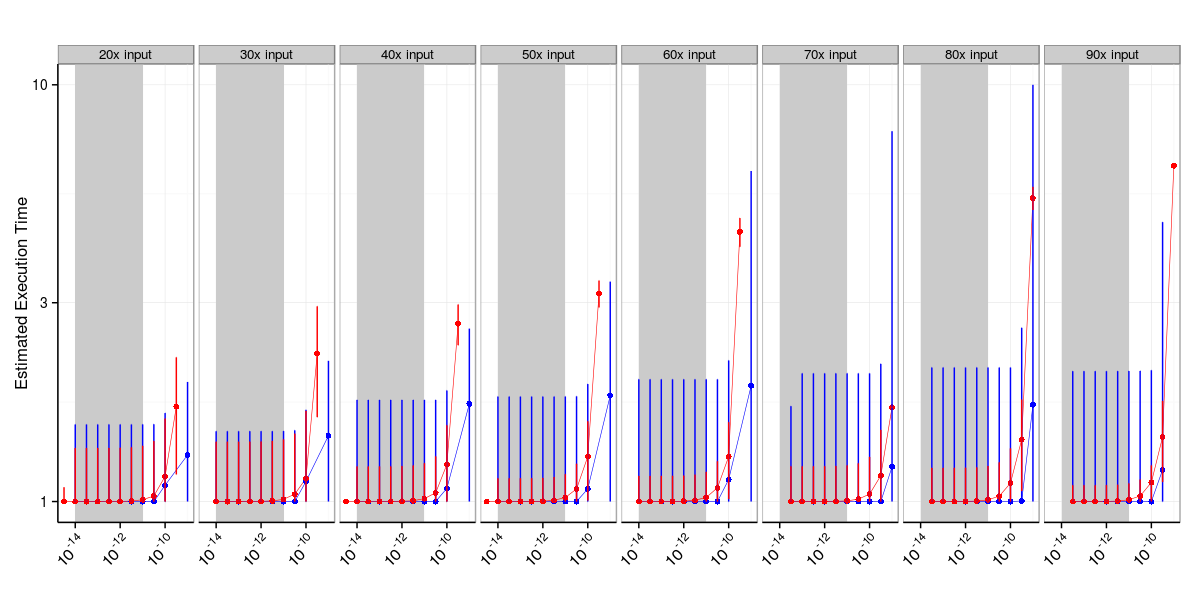
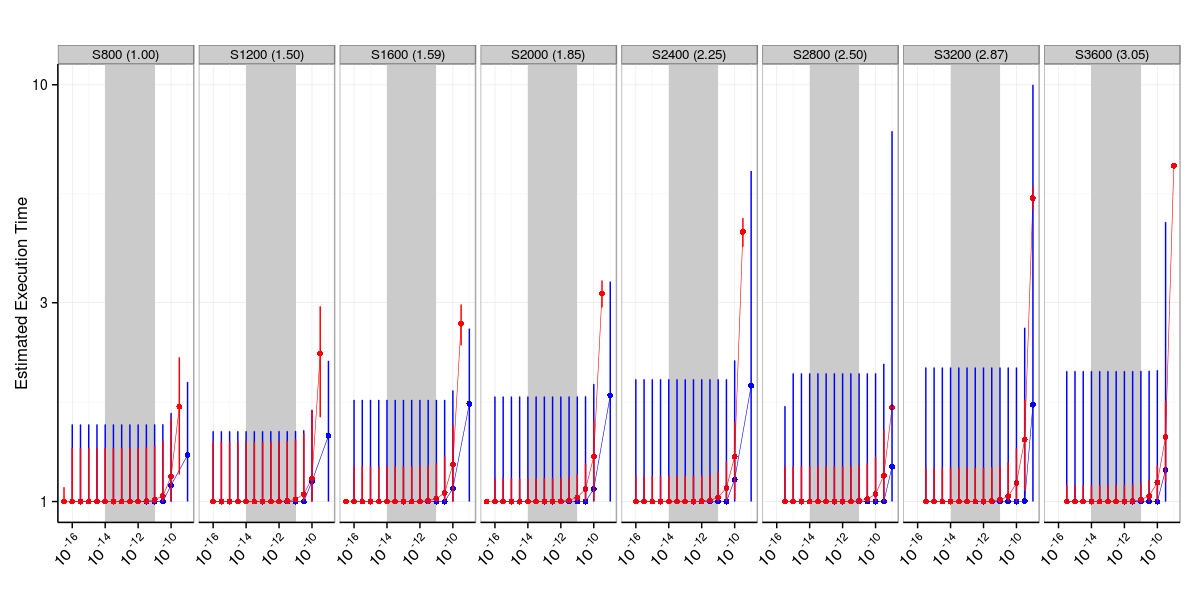
Changes in text; change the facet names on figs 9~14

Changed region(s): [[0.0308, 0.06, 0.9867, 0.96]]

diff --git a/paper.tex b/paper.tex
@@ -43,7 +43,7 @@ To provide comprehensive protection for the computations of HPC applications it 
 Algorithmic resilience can be very complex to deploy in applications because a comprehensive resilience strategy must address all the types of errors that an application may experience.
 This includes corruptions to numerical data as well as control information and data structures.
 Full protection requires the combination of multiple techniques including algorithmic error detection, crash detection, replication of key control information as well as support for restart when errors are detected.
-Further, it is necessary to configure the properties of the resilience mechanisms to make sure that they are cost-effectively meeting the user's accuracy and confidence targets. 
+Further, it is necessary to configure the properties of the resilience mechanisms to make sure that they are cost-effectively meeting the user's accuracy and confidence targets.
 This paper shows how all these issues can be resolved comprehensively in the context of three numeric applications.
 
 \end{abstract}
@@ -79,8 +79,8 @@ We show how these three applications can be comprehensively protected from soft 
 We demonstrate via fault injection experiments that although none of these techniques can individually protect applications from soft faults, their combination is highly effective.
 Further, we demonstrate how these techniques can be configured to offer the right level of protection at any given fault rate or input type.
 More specifically, these configurations can be used to produce a wide range of overheads and result accuracy levels and to tune the probabilistic confidence level that the given overhead or accuracy target will be met.
-%\greg{Summarize real results} 
-%\sui{A tighter algorithmic checker bounds can be enabled at low error rates to completely eliminate erroneous results at a lower overhead, while a more lenient algorithmic checker would allow the user to produce more acceptable results in face of a higher error rate (such as 1e-09)} 
+%\greg{Summarize real results}
+%\sui{A tighter algorithmic checker bounds can be enabled at low error rates to completely eliminate erroneous results at a lower overhead, while a more lenient algorithmic checker would allow the user to produce more acceptable results in face of a higher error rate (such as 1e-09)}
 For the three considered scientific codes, we correct more than 50\% of segmentation faults and we reduce the error in the outputs by one order of magnitude. The overhead is always lower than 20\%.
 
 The paper is organized as follows.
@@ -122,29 +122,31 @@ Since they spend most of their execution time in library routines, we focus our 
 The ADDR method solves under-unconstrained linear problems $Ax=b$ for $x$ ($A$ has fewer rows than columns) while minimizing the function $f(x)$.
 This is an iterative algorithm uses 64-bit precision and that spends most of its time in the following linear algebra operations, matrix-matrix multiplication, matrix-vector multiplication, rank-k update and Cholesky factorization, using the implementations of these routines from the GNU Scientific Library~\cite{gsl:2011}.
 We focus on a specific application that uses the ADDR method to solve Lasso problems, which are defined as minimizing the function $\frac{1}{2} \left|| Ax - b \right||_2^2 + \lambda*\left|| x \right||_1$.
-In our experiments we consider linear systems of size $\{40, 80, 120, ..., 4000\} \times 500$ that are generated by sampling a normal distribution.
+It is parallelized using MPI and our experiments focus on 4-processors runs of ADDR which computes linear systems of size $\{40, 80, 120, ..., 4000\} \times 500$ (40 to 4000 measurements with 500 variables each) and in the experiments below are denoted $S40$, $S80$, ..., $S4000$.
+The values in $A$ and $b$ are generated by sampling a normal distribution with a mean of 0.
 According to our experiments, the running time of this solver is not dependent on the kind of distribution the inputs are sampled from.
 
 \subsection{DRC: Digital Room Correction}
 \label{sec:apps:drc}
 
-The DRC program generates filters for HiFi audio systems to compensate for the reflection of sounds in a room, using impulse response measurements of the audio equipment and considering the positions of the listeners.
+DRC is a sequential program generates filters for HiFi audio systems to compensate for the reflection of sounds in a room, using impulse response measurements of the audio equipment and considering the positions of the listeners.
 The inputs are stored in Pulse Code Modulation (PCM) format, which is an array of 32-bit floating point numbers representing the samples at each sampling time step and the computations are performed using 32-bit precision.
-Although the algorithm is divided into many phases the most computationally intensive step consists of the GSL's implementation of the Fast Fourier Transform and an DRC-internal implementation of Finite Impulse Response filter generation.
+Although the algorithm is divided into many phases the most computationally intensive step consists of the GSL's implementation of the Fast Fourier Transform and a DRC-internal implementation of Finite Impulse Response filter generation.
 This program accepts user-controllable configurations to decide the width and number of iterations of FFT transforms it uses to perform various passes on the input file, such as windowing, deconvolution, pre- and post-filtering.
-The input used in this paper is an audio file of size 768 kilobytes.
+The input used in this paper is an audio file of size 768 kilobytes, which is sampled at the rate of 30Khz, 40Khz, ..., 90Khz.
 
 \subsection{Hattrick}
 \label{sec:apps:hattrick}
-The Hattrick application simulates the motion of bodies under the effects of gravity using 64-bit precision.
+Hattrick is a sequential application simulates the motion of bodies under the effects of gravity using 64-bit precision.
 It is designed to help discover extra-solar planets by inferring their existence from Transit Timing Variations, where the difference between the times when a planet passes in front of its host star is used to infer the existence and properties of other planets in the system.
-This program spends most of its execution time in the GSL solver for Ordinary Differential Equations to solver the system's equations of motion.
-Input files are four different planetary systems. The first, third and fourth input files simulate one star and one planet and the second simulates one star and two planets. The third and fourth inputs are the same planetary system with different lengths of simulation time.
+This program spends most of its execution time in the GSL solver for Ordinary Differential Equations to solve the system's equations of motion.
+A given input is described using three parameters: $P$=number of planets, $T$=amount of time to simulate, and $A$=the accuracy target.
+In our experiments we considered the following four inputs: $P2T2090A15$, $P2T3090A15$, $P2T4090A15$ and $P3T2090A11$, where an $A15$ and $A11$ denote accuracy targets of $1e-15$ and $1e-11$, respectively.
 
 \section{Resilience Techniques}
 \label{sec:res_tech}
 
-In this paper we consider a comprehensive resilience strategy that combines error detection and recovery.
+In this paper we consider a comprehensive resilience strategy that combines various types of error detection and recovery.
 Error detection techniques are discussed in Section~\ref{sec:res_tech:err_det}, with Section~\ref{sec:res_tech:err_det:algo} focusing on algorithmic techniques to detect errors in the numeric portions of application state, while Section~\ref{sec:res_tech:err_det:mem} focuses on protection of data structures.
 Section~\ref{sec:res_tech:cr} then considers recovery techniques based on both checkpoint-restart, which offers lower-overhead but higher-latency recovery, as well as replication of key variables, which reduces performance but enables fast recovery.
 Finally, Section~\ref{sec:res_tech:eval} presents an experimental evaluation of the performance and accuracy properties of the resilient versions of the major routines used by our target applications, under a wide range of inputs and error injection rates.
@@ -152,65 +154,76 @@ Finally, Section~\ref{sec:res_tech:eval} presents an experimental evaluation of 
 \subsection{Error Detection}
 \label{sec:res_tech:err_det}
 
+\vspace{-5pt}
 \subsubsection{Algorithmic Detection}
 \label{sec:res_tech:err_det:algo}
 
 %\sui{Performance experiments inserted here: running algorithmic checkers across different input sizes and fault rates: 62x62 to 500x500 matrices for MM, RK, CD, MV checkers; FFT sizes of $2^8$ to $2^{24}$ for the FFT checker; Error bars should apply here, especially for the Cholesky Decomposition checker}
 
 Each algorithm used by the above application was enhanced with an algorithm-specific checker that validated its results by exploiting some algorithmic identity.
-Each checker computes some aggregate property of the algorithm's results using two different algorithm to produce vectors $v$ and $v'$ and their relative difference by more than some threshold $\tau$, the checker declares that an error has occurred.
+Each checker computes some aggregate property of the algorithm's results using two different algorithms to produce vectors $v$ and $v'$.
+If their relative difference by more than some threshold $\tau$, the checker declares that an error has occurred.
 The relative difference is computed as $\frac{\left|| v-v' \right||}{max(\left||v\right||, \left||v'\right||)}$.
 Each error detection causes the routine's execution to be restarted using the rollback mechanism described in Section~\ref{sec:res_tech:cr}.
 
+\vspace{-5pt}
 \paragraph{Matrix-matrix multiplication (MMM)}
-The MMM operation $A \cdot B$ is checked using a matrix vector multiplication (MVM), making use of this identity: $(A \cdot B) \cdot x = A \cdot (B \cdot x)$, where $x$ is an error-checking vector.
-Both sides compute the sums of the columns of matrix $A \cdot B$ using a single matrix-vector multiplication on the left and two such operations on the right.
+The operation $A \cdot B$ is checked using a matrix vector multiplication (MVM), via the identity: $(A \cdot B) \cdot x = A \cdot (B \cdot x)$, where $x$ is an error-checking vector.
+Since we set the check vector $x$ to be all 1s this is equivalent to both sides computing the sums of the columns of matrix $A \cdot B$ using a single MVM on the left and two MVMs on the right.
 Most errors in the computation of $A \cdot B$ will affect the sums of its columns and will thus be detected.
 This check is efficient because the checker is asymptotically faster than the MMM algorithm, with MVM taking $O(n^2)$ time and MMM $O(n^3)$ time.
-Since this is dense martix matrix multiplication, we set the check vector $x$ to contain all 1's.
 
+\vspace{-5pt}
 \paragraph{Matrix-vector multiplication (MVM)}
 The MVM algorithm $Ax=b$ is checked using a similar identity $(x^TA)x = x^T(Ax) = x^Tb$.
-The product $x^TA$ is a checksum of the columns of matrix $A$ and when $x$ is the vector of 1's, the value used in our experiments, it is the sum of $A$'s columns.
+We again set $x$ to be the vector of 1's, making the product $x^TA$ equivalent to sum of the columns of matrix $A$.
 Although the computation of $x^TA$ involves additions rather than multiplications, the complexity of computing $x^TA$ is $O(n^2)$, the same as the original MVM operation.
 %While this cost can be reduced significantly by computing $x^TA$ once and reusing it in subsequent multiplications by the same matrix, we did not consider it in this paper because MVM took up little application execution time.
 However, for applications such as ADDR where the MVM is applied to same matrix many times with different vectors, the column sums can be reused, amortizing the cost of this computation.
 Our experimental evaluation below thus focuses on the overhead of the $x^T(Ax)$ computation, which has $O(n)$ complexity.
 
+\vspace{-5pt}
 \paragraph{Symmetric Rank-K update (SYRK)}
-The SYRK update is a special case of matrix-matrix multiplication $B = \alpha A \cdot A^T + \beta B$, where an $n \times k$ matrix $A$ is multiplied by itself to produce an $n \times n$ matrix with rank $k$, which is incremented into the $nxn$ matrix $B$.
+The SYRK update is a special case of matrix-matrix multiplication $B = \alpha A \cdot A^T + \beta B$, where an $n \times k$ matrix $A$ is multiplied by itself to produce an $n \times n$ matrix with rank $k$, which is incremented into the $n \times n$ matrix $B$.
 Its results are checked using the same algorithm as MMM by checking the identity $B x = \alpha A \cdot (A^Tx) + \beta B x$, where $x$ is the vector of all 1's.
 This check runs in time $O(n^2)$, as compared to the $O(n^3)$ cost of SYRK.
 
+\vspace{-5pt}
 \paragraph{Cholesky Decomposition (CD)}
 In this decomposition matrix $A$ is decomposed into $L \cdot L^T$ where $L$ is a lower-triangular matrix with a positive diagonal.
-This routine is checked just like MMM by checking the identity $Ac = L \cdot (L^T x)$, which is cheaper than the $O(n^3)$ complexity of the deterministic CD algorithm.
+This routine is checked just like MMM by checking the identity $Ax = L \cdot (L^T x)$, which is cheaper than the $O(n^3)$ complexity of the deterministic CD algorithm.
 The GSL implements an iterative algorithm that runs faster than $O(n^3)$ time but as shown in the experiments below, it is significantly slower than our checker.
 
+\vspace{-5pt}
 \paragraph{Fast Fourier Transform (FFT)}
 The FFT algorithm decomposes a function into a sum of sine waves of different frequencies: $f(x) = \sum_{n=0}^{N-1} x_n e^{-i2\pi k n / N}$ for some constant $k$.
-We check the results of FFT by using Parseval's theorem, which states that $\sum_{n=0}^{N-1} \left| x[n] \right|^2 = \frac{1}{N} \sum_{k=0}^{N-1} \left| X[k] \right|^2$, where $x$ is the original function and $X$ is its transform. GSL implements optimized radix 2, 3, 4, 5, 6 and 7 subtransform routines as well as a general radix-N FFT routine. The subtransforms are optimized and consume $O(n log(n))$ time and the general one consumes $O(n^2)$ time. Therefore, GSL has a scheduling algorithm that factorizes the length of the input FFT, running the subtransforms whenever possible, using the fallback general radix-N routine only for the remaining factors.
-The theorem applies to FFT of any radix.
-This means that the total energy of the original function is preserved by the transform and provides an $O(n)$ time check for the $O(n log(n))$ FFT algorithm.
+We check the results of FFT by using Parseval's theorem, which states that $\sum_{n=0}^{N-1} \left| x[n] \right|^2 = \frac{1}{N} \sum_{k=0}^{N-1} \left| X[k] \right|^2$, where $x$ is the original function and $X$ is its transform. 
+Intuitively it means that the energy of the original function is preserved by the transform.
+GSL implements optimized radix 2, 3, 4, 5, 6 and 7 subtransform routines as well as a general radix-N FFT routine. The subtransforms are optimized and consume $O(n log(n))$ time and the general one consumes $O(n^2)$ time. Therefore, GSL has a scheduling algorithm that factorizes the length of the input FFT, running the subtransforms whenever possible, using the fallback general radix-N routine only for the remaining factors.
+The theorem applies to FFT of any radix and provides an $O(n)$ time check for the $O(n log(n))$ or $O(n^2)$ FFT algorithms.
 
+\vspace{-5pt}
 \paragraph{Finite Impulse Response Filter Generation (FIR)}
-The FIR filter generation algorithm used in DRC generates a series of samples over the $sinc$ function $sinc(x)=\frac{sin(x)}{x} (sinc(x)=1\ when\ x\ is\ 0)$ and modulates it with a Blackman window.
-This function has the property that $\int_{-\infty}^{\infty} sinc(x)dx = 1$. 
+The FIR filter generation algorithm used in DRC generates a series of samples over the function $sinc(x)=\frac{sin(x)}{x}$
+%(\text{if}~x \ne 0)$ and $sinc(x)=1 (\text{if}~x=0)$ 
+and modulates it with a Blackman window.
+This function has the property that $\int_{-\infty}^{\infty} sinc(x)dx = 1$.
 The Blackman window - modulated output of this routine preserves this same property for most of the time, making it possible to check the output by computing the sum and comparing it to 1.
 Computing the sum requires $O(n)$ additions, as compared to the $O(n)$ trigonometric function evaluations of the non-iterative FIR generation algorithm.
 %As shown below, the overhead of this checker is very small (less than 5\%).
 %Since this algorithm has only output and no input and therefore it does not need to have to be reinforced with input backup as other routines do.
 
+\vspace{-5pt}
 \paragraph{Runge-Kutta PDE Solver (RK)}
-This algorithm uses the 4-th order Runge-Kutta method for solving Ordinary Differential Equations of the form $\frac{dy}{dx} = f(y, x)$.
-It works by advancing the variable $x$ by steps of size $h$ and using estimates of the derivative $\frac{dy}{dx}$ at each point $x$ to find the value of $y$ at the next point $x+h$.
-The RK method in GSL uses adaptive step-size control where it simultaneously performs the RK method with two step sizes $h$ and $\frac{h}{2}$ (more precise).
-If the difference between the results obtained with the two step sizes are larger than a high water-mark threshold, the algorithm switches to the smaller step size to maintain accuracy and resumes.
-If it is smaller than a low water-mark threshold, the algorithm switches to a larger step size.
+RK is a 4-th order Runge-Kutta method for solving Ordinary Differential Equations of the form $\frac{dy}{dx} = f(y, x)$.
+It advances the variable $x$ by steps of size $h$ and uses estimates of the derivative $\frac{dy}{dx}$ at each point $x$ to find the value of $y$ at the next point $x+h$.
+The implementation of RK in GSL uses adaptive step-size control where it simultaneously performs the RK method with two step sizes $h$ and $\frac{h}{2}$ (more precise).
+If the difference between the results obtained with the two step sizes are larger than a threshold $\tau$, the algorithm switches to the smaller step size to maintain accuracy and resumes.
+If it is smaller than $\frac{\tau}{2}$, the algorithm switches to a larger step size.
 Because soft errors will usually cause significant differences between the two computations, the adaptive step size control algorithm is naturally fault tolerant.
 It will react to such errors by rolling back, temporarily increasing its step size and then reverting to the original step size when it observes that this is safe.
-As such, we utilize this algorithm to protect the computations within individual RK4 steps from soft errors.
-However, computations in user-provided function derivative functions are not checked since their invariants are unknown.
+As such, we utilize this algorithm to protect the computations within individual RK steps from soft errors.
+However, computations in user-provided function derivative functions are not checked since their invariants are notknown.
 
 %Experiment 2: Measure the error in the outputs of the algorithms with and without the algorithmic detectors.
 %First, show a probability distribution histogram for all the codes at one error rate, input size and algorithmic detection threshold.
@@ -227,38 +240,38 @@ In our work we considered the use of access protection hardware and replication 
 
 Since modern systems use 64-bit addressing the range of values that can be assumed by a given pointer is much larger than the amount of memory that can ever be assigned to an application.
 This means that there is a very high probability that the corruption of a given pointer will cause it to point to an unallocated address.
-Once this address is accessed this violation will be detected by the memory protection hardware and communicated to the application via a Segmentation Fault or Bus Error signal.
+Once this address is accessed the resulting violation will be detected by the memory protection hardware and communicated to the application via a Segmentation Fault or Bus Error signal.
 This mechanism is cheap but suffers from a long delay between an error and its detection.
 
-An alternative mechanism is to replicate key application variable and to compare the values of the replicas on each access to the variable.
+An alternative mechanism is to replicate key application variables and to compare the values of the replicas on each access to the variable.
 While more expensive, this approach is effective if the number of key variables is small and the cost of rolling back computation is high.
 
 The low cost of hardware memory protection mechanisms means that they are deployed in protecting all our routines.
 In contrast, replication is only used to protect the RK routine because it is more sensitive to soft errors than the others and the low detection latency provided by replication ensures that any state corruptions are quickly corrected and have little impact on execution time.
 This is important for resilience as well as performance since slowdowns due to frequent rollbacks increase the total number of errors the application is exposed to.
 
-\subsection{Recovery via Checkpoint-Restart and Replication}
+\subsection{Recovery via Checkpoint-Restart and \\Replication}
 \label{sec:res_tech:cr}
 
 When errors are detected we employ a recovery method based on checkpoint-restart, where routine state is recorded at key locations and whenever an algorithmic or memory error is detected we roll back to that point in its execution.
 Rollbacks are implemented via the \texttt{sigsetjmp}/\texttt{siglongjmp} \cite{sigsetjmp:1997} routines.
-\texttt{sigsetjmp} record the application's execution state (registers and stack pointer) at the time of the checkpoint.
-On error detection \texttt{siglongjmp} returns the application to the same execution point, unrolling any function calls between the checkpoint and the error detection.
+\texttt{sigsetjmp} records the application's execution state (registers and stack pointer) at the time of the checkpoint.
+On the detection of an error \texttt{siglongjmp} returns the application to the same execution point, unrolling any function calls between the checkpoint and the error detection.
 This method is useful for rolling back to checkpoints recorded in the same function or in a caller function.
 When execution returns to the \texttt{sigsetjmp} call the checkpointed portions of the routine's state are recovered and execution repeats.
 % The overhead of this API call is having to copy the processor state into memory, therefore installing them between computation-intensive method calls adds to negligible performance degradation.
 
 Checkpoint data is protected using two different mechanisms:
 Pointers and scalars are replicated such that the checkpoint contains two copies of each.
-Arrays of floating point numbers are protected via a block-checksum-based error correcting approach:
-By treating the input array as a matrix and comparing row sums and column sums of the submatrices of that matrix, it detects the existence of errors and fixes them. 
-This algorithm takes an array of numbers as input, divides it into blocks of $N \cdot N$ numbers and for each block it computes and stores the row sums and column sums, which are used for recovery.
+Arrays of floating point numbers are protected via a block-checksum-based error correcting approach.
+By treating the input array as a matrix and comparing row sums and column sums of the submatrices of that matrix, it detects the existence of errors and fixes them.
+This algorithm takes an array of numbers as input, divides it into blocks of $N \times N$ numbers and for each block it computes and stores the row and column sums, which are used for recovery.
 
 The structure of each routine determines how checkpointing is deployed.
 All routines except RK are monolithic code blocks that take a relatively large amount of data as input, operate on it and then return.
 In contrast, RK takes in very little input and operates as a long sequence of steps, each of which involves a call to a user-provided derivative routine.
 As such, we checkpoint the state of non-RK routines immediately after the call to the routine and include in this checkpoint the routine's arguments and contents of the floating point input buffers.
-The one exception is the FIR routine, which takes no input and thus requires only the processor's state to be checkpointed..
+The one exception is the FIR routine, which takes no input and thus requires only the processor's state to be checkpointed.
 Because RK's checkpoints are very small and it is more sensitive to errors, it is checkpointed periodically during its execution with a fixed number of steps between checkpoints.
 As our experiments in \ref{sec:res_tech:eval:rk} show, the choice of the RK checkpoint period significantly affects its efficiency with longer periods suffering from more overhead due to rollbacks and short period spending more time checkpointing.
 
@@ -318,7 +331,7 @@ The data shows that checkpointing routine's input (input backup bar) consumes mo
 \includegraphics[width=1.00\columnwidth]{figs/4_1_1_Exp2_2_Heatmap_Error_ConfSpace.png}
 \begin{tabular}{|p{0.5in}|p{0.7in}|p{0.7in}|p{0.7in}|}
 \hline
-Routine & Threshold 1 & Threshold 2 & Threshold 3 \\ 
+Routine & Threshold 1 & Threshold 2 & Threshold 3 \\
 \hline
 \hline
 CD & 1e-06 & 1e-07 & 1e-08 \\
@@ -352,7 +365,7 @@ The y-axis shows different routine input sizes and error injection rates, sorted
 The x-axis shows the different error magnitudes and the shade of each point is the fraction of the routine's entries that have a given error magnitude, with darker shades indicating more such entries.
 Thus, each row of Figure~\ref{fig:algo_err_heatmap} represents the same information as each curve in Figure~\ref{fig:algo_err_dist}, with the shades of the squares representing the same information as the height of the line's points.
 
-%We dont have the following figure and there is no time to generate it. 
+%We dont have the following figure and there is no time to generate it.
 %Figure~\ref{fig:algo_err_heatmap} shows the same information across the entire experimental space.
 %The y-axis includes all algorithms, input sizes and error rates.
 %The x-axis includes several segments for different degrees of error checking: none, as well as checking with thresholds \greg{???} \sui{1e-06, 1e-07 and 1e-08}. In each segment the x-axis spans over error magnitudes from \greg{???} \sui{1e-14} to \greg{???} \sui{1e-01}.
@@ -401,7 +414,7 @@ We consider checkpointing periods equal to 1, $10^2$, $10^3$, $10^4$ and $10^5$ 
 %\label{fig:rk_routine_detect_ovhd}
 %\end{figure}
 
-%Figure~\ref{fig:rk_routine_detect_ovhd} shows the overhead of employing each of the four RK resilience techniques when no errors are injected. We use here the same format as in figure\ref{fig:routine_all_ovhd}. 
+%Figure~\ref{fig:rk_routine_detect_ovhd} shows the overhead of employing each of the four RK resilience techniques when no errors are injected. We use here the same format as in figure\ref{fig:routine_all_ovhd}.
 %%MARC: I decided to remove the above figure because it doesnt make sense to me and the same information is displayed in the following figure with more readibility.
 
 \begin{figure}[ht!]
@@ -479,6 +492,7 @@ Having evaluated the resilience properties of the individual application routine
 Section~\ref{sec:eval:perf} reports on the impact of errors and resilience techniques on application performance. Section~\ref{sec:eval:acc} describes the distribution of errors in the results of these applications.
 These results are based on a fault injection campaign that includes a range of fault injection rates, input sizes and configurations of resilience mechanisms, with 100 application runs for each combination of parameters.
 This corresponds to a total of 66100 for lasso, 43200 for DRC, 102000 for Hattrick error injection experiments.
+It was performed on compute nodes with two 2.33 GHz dual-core Xeon E5345 processors with 4GB Ram and RHEL 4 OS.
 
 A given application run may terminate successfully or crash due to an unrecoverable error.
 Unrecoverable errors occur when there is a segmentation fault in code outside our protected routines or if 5 rollbacks of a routine have been observed in a given run since such repeated rollbacks almost always indicate that the corruption in application state cannot be repaired.
@@ -497,9 +511,9 @@ This was done by considering only the runs where exactly one error was injected 
 
 Our fault injection experiments ran each application configuration to completion, recording whether it completed and if so, the magnitude of the error.
 We calculate the execution time of each configuration, accounting for application rollbacks via the formula $\frac{t_c}{1-p_f}$, where $t_c$ is the average completion time of such runs and $p_f$ is the probability of a run failing to complete.
-Figures~\ref{fig:Lasso_EstdCost}, \ref{fig:DRC_EstdCost} and \ref{fig:Hattrick_EstdCost} show the expected execution time, relative to the execution time of the non-fault tolerant version of the application when no errors are injected, of the non-fault tolerant version (red) and the optimal fault tolerant version (blue). 
-The optimal fault tolerant version is the one that suffers from smaller overhead among the ones that provide more resilience enhancement. 
-To select the optimal one we consider error checker tresholds from $10^{-4}$ to $10^{-7}$ for ADDR, from $10^{-6}$ to $3 \cdot 10^{-8}$ for DRC and from using one pair of copies for each variable occurence to using a different pair of replicas for each variable occurrence for Hattrick.     
+Figures~\ref{fig:Lasso_EstdCost}, \ref{fig:DRC_EstdCost} and \ref{fig:Hattrick_EstdCost} show the expected execution time, relative to the execution time of the non-fault tolerant version of the application when no errors are injected, of the non-fault tolerant version (red) and the optimal fault tolerant version (blue).
+The optimal fault tolerant version is the one that suffers from smaller overhead among the ones that provide more resilience enhancement.
+To select the optimal one we consider error checker tresholds from $10^{-4}$ to $10^{-7}$ for ADDR, from $10^{-6}$ to $3 \cdot 10^{-8}$ for DRC and from using one pair of copies for each variable occurence to using a different pair of replicas for each variable occurrence for Hattrick.
 The graphs from left to right correspond to different application input sizes.
 Within each graph the x-axis corresponds to error injection rates, while the y-axis shows the relative execution time, both logarithmic.
 
@@ -509,16 +523,16 @@ The confidence interval is computed by modeling the number of times application 
 Given a binary random variable that is equal to 1 (i.e. error bound achieved) with probability $p$ and 0 (i.e. bound missed) with probability $1-p$ the Binomial distribution is the number of trials where it is 1.
 
 Figure~\ref{fig:Lasso_EstdCost} shows that the non-fault tolerant ADDR slows down from 2x to 9x, depending on the input set size, as a result of the injected faults.
-The optimal fault tolerance version the algorithm shows degradation that are around one half of the non-faul tolerant one, which implies that our technique improve ADDR's resilience by 50\%. 
+The optimal fault tolerance version the algorithm shows degradation that are around one half of the non-faul tolerant one, which implies that our technique improve ADDR's resilience by 50\%.
 
-Figure~\ref{fig:DRC_EstdCost} shows results regarding the DRC application. 
+Figure~\ref{fig:DRC_EstdCost} shows results regarding the DRC application.
 Since it performs many more integer operations and memory copies than ADDR, it is more vulnerable to errors that corrupt the values of pointers or cause loads and stores to target invalid memory locations.
-Such errors cause memory segmentation faults, which force DRC to restart its execution and thus incur a very high overhead. 
-That is the reason why the performance slowdown of its non-fault tolerant version is much larger than the ADDR one. 
-In contrast, the optimal fault tolerant version reduces almost completely the slowdown due to fault injection.   
+Such errors cause memory segmentation faults, which force DRC to restart its execution and thus incur a very high overhead.
+That is the reason why the performance slowdown of its non-fault tolerant version is much larger than the ADDR one.
+In contrast, the optimal fault tolerant version reduces almost completely the slowdown due to fault injection.
 
-Figure~\ref{fig:Hattrick_EstdCost} shows how the performance slowdown of the fault tolerance version it is very unstable but it can reach values close to 100x. 
-The performance of the optimal fault tolerant version is consistently much better.     
+Figure~\ref{fig:Hattrick_EstdCost} shows how the performance slowdown of the fault tolerance version it is very unstable but it can reach values close to 100x.
+The performance of the optimal fault tolerant version is consistently much better.
 
 \begin{figure*}[ht!]
 \centering
@@ -538,14 +552,14 @@ The performance of the optimal fault tolerant version is consistently much bette
 \label{fig:DRC_EstdCost}
 \end{figure*}
 
-\begin{figure*}[ht!]
+\begin{figure}[ht!]
 \centering
 \includegraphics[height=2.75in]{figs/Hattrick_EstdCost.png}
 \vspace{-10pt}
 \caption{Execution time of Hattrick relative to non-fault tolerant fault-free execution time. Results for the non-fault tolerant version (red) and the optimal fault tolerant version (blue) are shown.}
 \vspace{-10pt}
 \label{fig:Hattrick_EstdCost}
-\end{figure*}
+\end{figure}
 
 
 %\sui{When a user wants to run an application under a faulty environment and obtain correct results, s/he would have to expect to run a part of this application multiple times in case the application aborts due to memory access errors or return useless incorrect results. The user might want to have the application return to a certain checkpoint, or restart the entire application should any unrecoverable occurs. The cost of rollback, and the chance of each type of errors occurs at a different rate. The Markov model comes into play here with its capability to capture all these parameters of experiments we have already run and predict the running time of the applications at configurations not experimented with.}
@@ -574,7 +588,7 @@ Both axis are expressed in logarithmic scale.
 Each graph shows data for the non-fault tolerant version of the application (all points connected by the line) as well as all the the fault tolerant versions (optimal configurations connected by a line).
 The 95\% confidence interval is plotted and denoted range of probabilities that the error bound will be achieved at the given error rate and application configuration in 95\% of all trials.
 
-Figures~\ref{fig:Lasso_ImperfectRate}, \ref{fig:DRC_ImperfectRate} and \ref{fig:Hattrick_ImperfectRate} show that the probability that the non-fault tolerant version of each one the three application satisfies the user-provided error bound is low especially for fault injection rates $10^{-9}$ to $10^{-11}$.  
+Figures~\ref{fig:Lasso_ImperfectRate}, \ref{fig:DRC_ImperfectRate} and \ref{fig:Hattrick_ImperfectRate} show that the probability that the non-fault tolerant version of each one the three application satisfies the user-provided error bound is low especially for fault injection rates $10^{-9}$ to $10^{-11}$.
 In contrast, the fault tolerant version of the application is significantly more successful, especially for error rates of $10^{-9}$ and lower.
 
 
@@ -594,13 +608,13 @@ In contrast, the fault tolerant version of the application is significantly more
 \label{fig:DRC_ImperfectRate}
 \end{figure*}
 
-\begin{figure*}[ht!]
+\begin{figure}[ht!]
 \centering
 %\includegraphics[height=3in]{figs/Hattrick_ImperfectRate.png}
 \includegraphics[height=2.75in]{figs/Hattrick_ImperfectRate_log.png}
 \caption{Probability of not satisfying the user-provided error bound for Hattrick. Results for the non-fault tolerant version (red) and the optimal fault tolerant version (blue) are shown.}
 \label{fig:Hattrick_ImperfectRate}
-\end{figure*}
+\end{figure}
 
 %\subsection{Overall Evaluation}
 %\label{sec:eval:overall}
@@ -610,10 +624,10 @@ In contrast, the fault tolerant version of the application is significantly more
 \section{Summary}
 \label{sec:summary}
 
-In this paper we show that it is possible to effectively protect three real scientific applications from a wide range of faults by properly combining three different fault tolerant mechanisms:       
+In this paper we show that it is possible to effectively protect three real scientific applications from a wide range of faults by properly combining three different fault tolerant mechanisms:
 Algorithmic error checks, replication of critical data structures and checkpoint-restart of individual routines.
 We demonstrate that very significant improvements can be achieved in terms of reduction of performance slowdown and output numerical accuracy when scientific problems face error injection rates from $3 \cdot 10^{-11}$ and $3 \cdot 10^{-14}$ per processor cycle in a 1Ghz, which are the expected rates in future high performance computing systems.
-This work demonstrates that current scientific application can be safely executed on such systems if the programmers combine resilience techniques in the way it is described.    
+This work demonstrates that current scientific application can be safely executed on such systems if the programmers combine resilience techniques in the way it is described.
 
 \bibliographystyle{abbrv}
 \bibliography{bibs}
